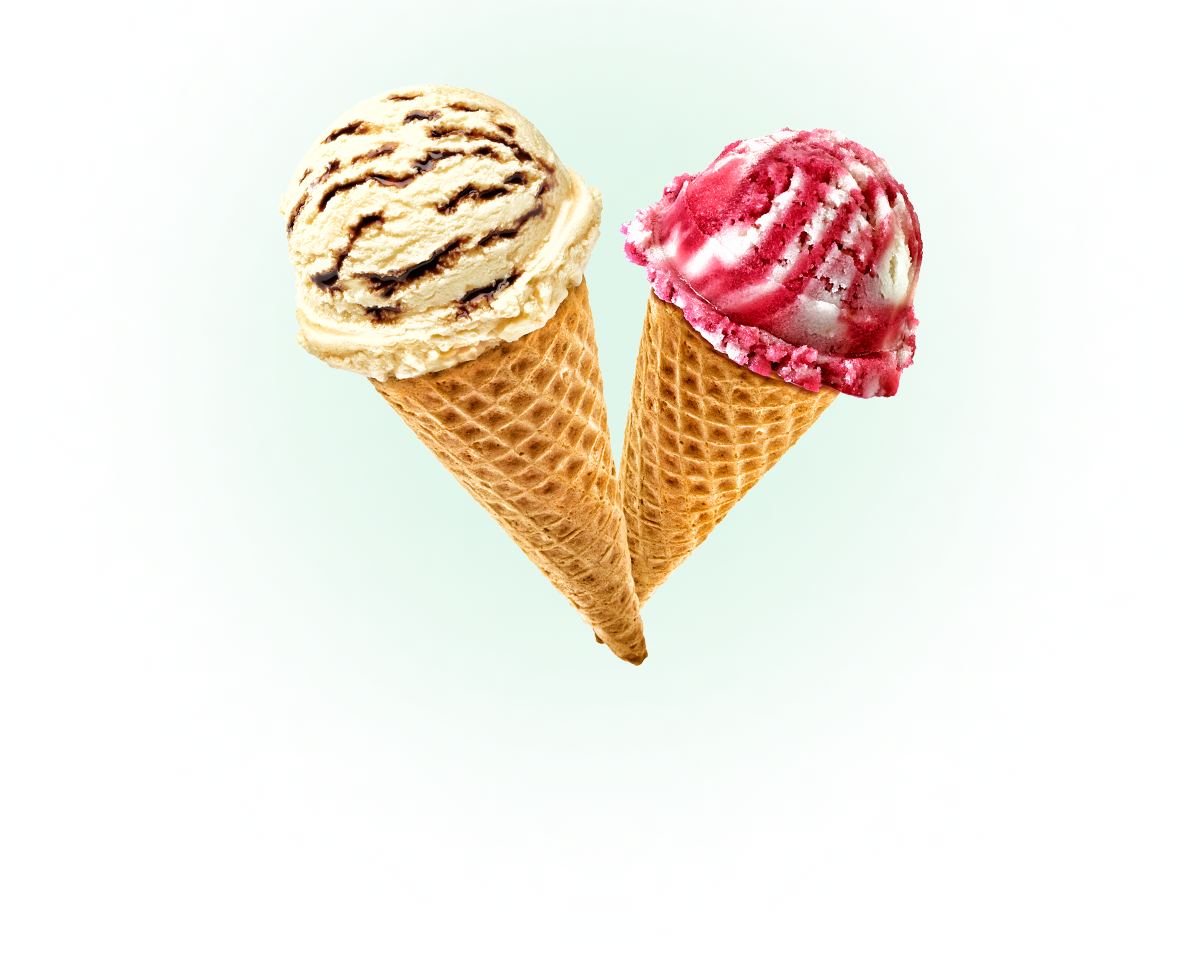
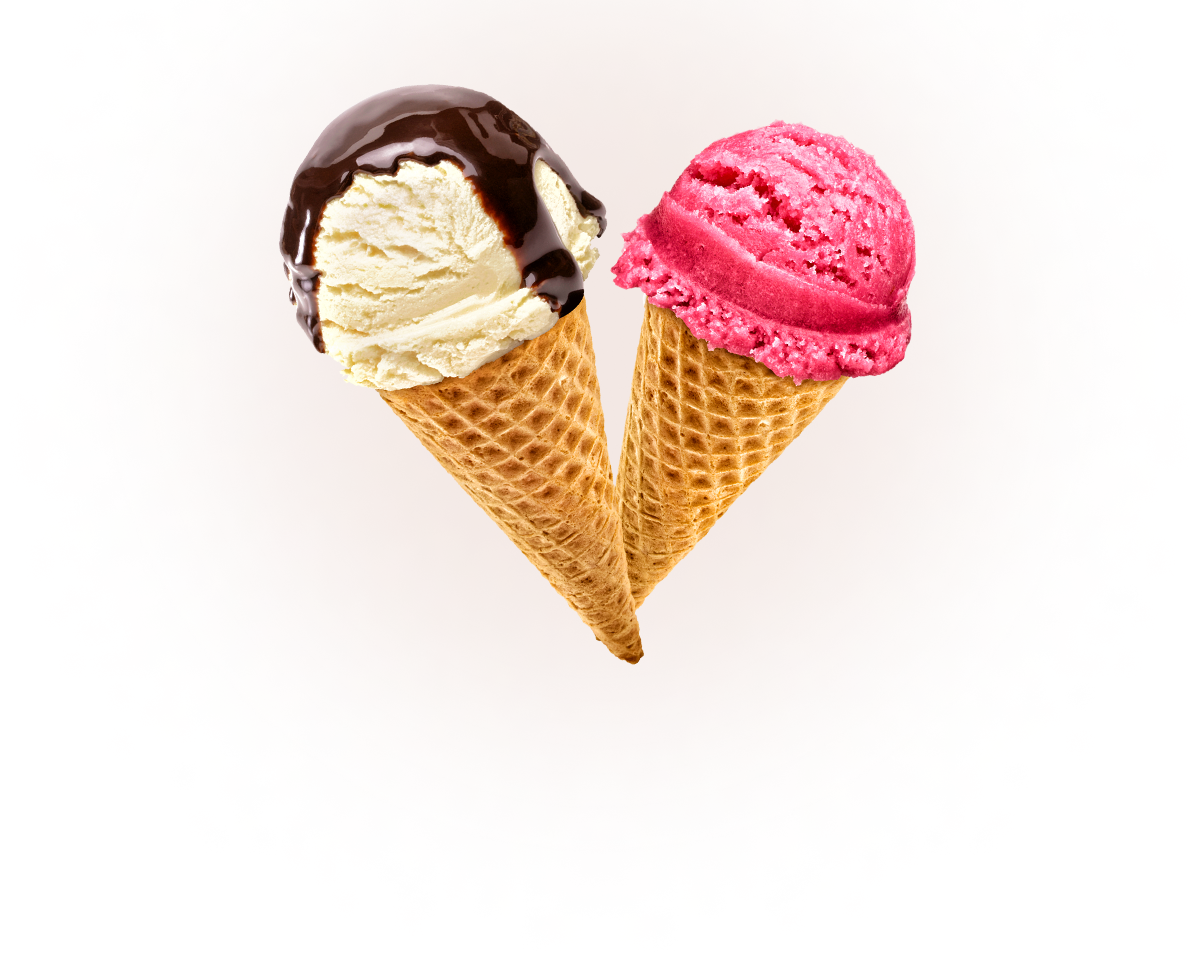
стилизовал слайдер и сделал кнопки для переключения

Changed region(s): [[0.2158, 0.0621, 0.7708, 0.6832]]

diff --git a/index.html b/index.html
@@ -10,7 +10,7 @@
 			<link rel="apple-touch-icon" href="img/favicons/180.png">
 			<link rel="manifest" href="manisfest.webmanifest">
    </head>
-   <body class="page">
+   <body class="page page--green-theme">
 		<header class="header page__header">
       <nav class="header__navigation">
          <a class="header__navigation-logo">
@@ -95,21 +95,26 @@
 		<main class="page__content content">
 			<h1 class="content__title visually-hidden">Магазин мороженного Глейси</h1>
 
-			<section class="slider page__slider content__slider">
+			<section class="slider content__slider">
 				<h2 class="slider__title visually-hidden">Предложения</h2>
-				<div class="slider__option-1 ">
-          <div class="slider__picture"></div>
+        <div class="slider__option slider__option-1 visually-hidden">
 					<p class="slider__desc">Крем-брюле и пломбир<br> с малиновым джемом</p>
+          <a class="slider__button button button--big" href="#"> Давайте оба!</a>
 				</div>
-				<div class="slider__option-2 visually-hidden">
+        <div class="slider__option slider__option-2 visually-hidden">
 					<p class="slider__desc">Шоколадный пломбир<br> и лимонный сорбет</p>
+          <a class="slider__button button button--big" href="#"> Давайте оба!</a>
+        </div>
+				<div class="slider__option slider__option-3">
+          <div class="slider__picture"></div>
+          <p class="slider__desc">Пломбир с помадкой <br> и клубничный щербет</p>
+          <a class="slider__button button button--big" href="#"> Давайте оба!</a>
 				</div>
-				<div class="slider__option-3 visually-hidden">
-
-					<p class="slider__desc">Пломбир с помадкой<br> и клубничный щербет</p>
-				</div>
-				<span class="slider__controls"></span>
-				<a class="slider__button button button--big" href="#"> Давайте оба!</a>
+				<div class="slider__controls">
+          <button class="slider__control" aria-label="Первый слайд"></button>
+          <button class="slider__control" aria-label="Второй слайд"></button>
+          <button class="slider__control slider__control--active" aria-label="Трейтий слайд"></button>
+        </div>
 			</section>
 
 			<section class="bunners content__bunners">

diff --git a/css/blocks/slider.css b/css/blocks/slider.css
@@ -1,7 +1,7 @@
 /* slider */
 .slider {
+  position: relative;
 	text-align: center;
-  z-index: -1;
 }
 
 .slider__desc {
@@ -13,24 +13,41 @@
 	line-height: 60px;
 
 	text-align: center;
-  margin: 0;
+  margin: 0 auto;
   margin-bottom: 25px;
+
+  width: 716px;
+
+ margin-top: 275px;
+ text-align: center;
 }
 
 .slider__button {
 	display: inline-block;
 }
 
-.slider__picture {
-  min-height: 750px;
-  min-width: 716px;
-  z-index: -1;
+.slider__controls {
+  position: absolute;
+  left:0;
+  bottom: 15px;
+}
 
+.slider__control {
+  box-sizing: border-box;
+  width: 21px;
+  height: 21px;
 
-  background-image: url(../../img/promo/ice-cream-1-left.png), url(../../img/promo/ice-cream-1-right.png), url(../../img/promo/backlight_new_1.png);
-  background-repeat: no-repeat;
-  background-size: 372px 584px, auto, 750px 750px;
-  background-position: top 190px left 530px , top 260px right 490px, top 75px center;
+  border: 2px solid var(--basic-white);
+  border-radius: 50%;
+  background-color: transparent;
 
-  margin: -260px;
+  cursor: pointer;
+}
+
+.slider__control:not(:last-child) {
+  margin-right: 5px;
+}
+
+.slider__control--active {
+  background-color: var(--basic-white);
 }

diff --git a/css/blocks/page.css b/css/blocks/page.css
@@ -1,0 +1,31 @@
+.page {
+  font-family: Roboto, sans-serif;
+
+  box-sizing: border-box;
+  max-width: 1200px;
+  padding: 0 27px;
+  margin: 0 auto;
+
+  outline: 2px solid red;
+}
+
+.page--brown-theme {
+  background-color: var(--brown-theme);
+  background-image: url(../../img/slides/background_3.png);
+  background-repeat: no-repeat;
+  background-position: center top;
+}
+
+.page--gray-theme {
+  background-color: var(--gray-theme);
+  background-image: url(../../img/slides/background_2.png);
+  background-repeat: no-repeat;
+  background-position: center top;
+}
+
+.page--green-theme {
+  background-color: var(--green-theme);
+  background-image: url(../../img/slides/background_1.png);
+  background-repeat: no-repeat;
+  background-position: center top;
+}

diff --git a/css/scaffolding.css b/css/scaffolding.css
@@ -22,11 +22,6 @@
 	font-style: bold;
 }
 
-body {
-	font-family: Roboto, sans-serif;
-  background-color: var(--gray-theme);
-}
-
 .visually-hidden {
 	position: absolute;
   width: 1px;
@@ -38,13 +33,4 @@ body {
   clip-path: inset(100%);
   clip: rect(0 0 0 0);
   overflow: hidden;
-}
-
-.page {
-  box-sizing: border-box;
-  max-width: 1200px;
-  padding: 0 27px;
-  margin: 0 auto;
-
-  outline: 2px solid red;
 }

diff --git a/css/style.css b/css/style.css
@@ -1,6 +1,7 @@
 
 @import "scaffolding.css";
 @import "variables.css";
+@import "blocks/page.css";
 @import "blocks/button.css";
 @import "blocks/input.css";
 @import "blocks/header.css";
